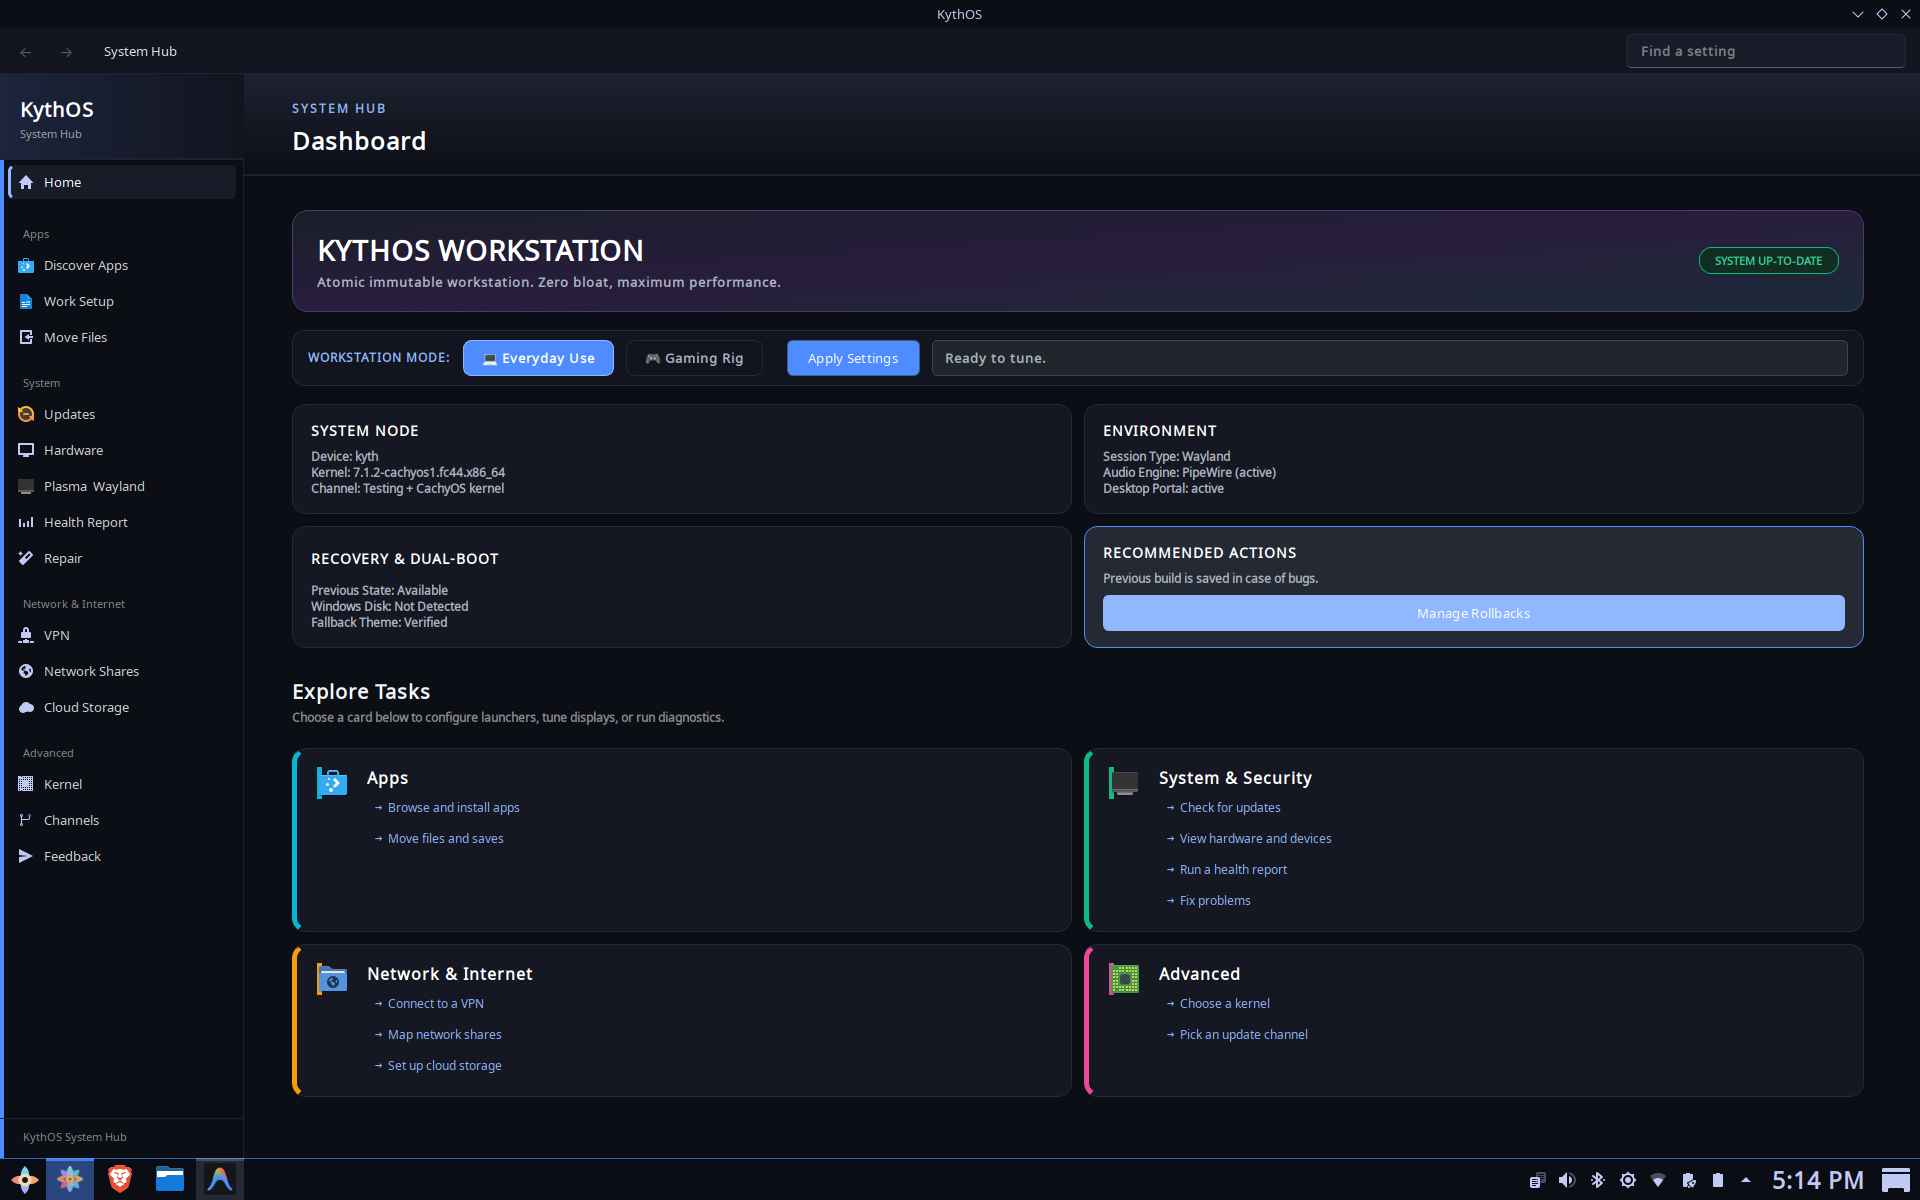
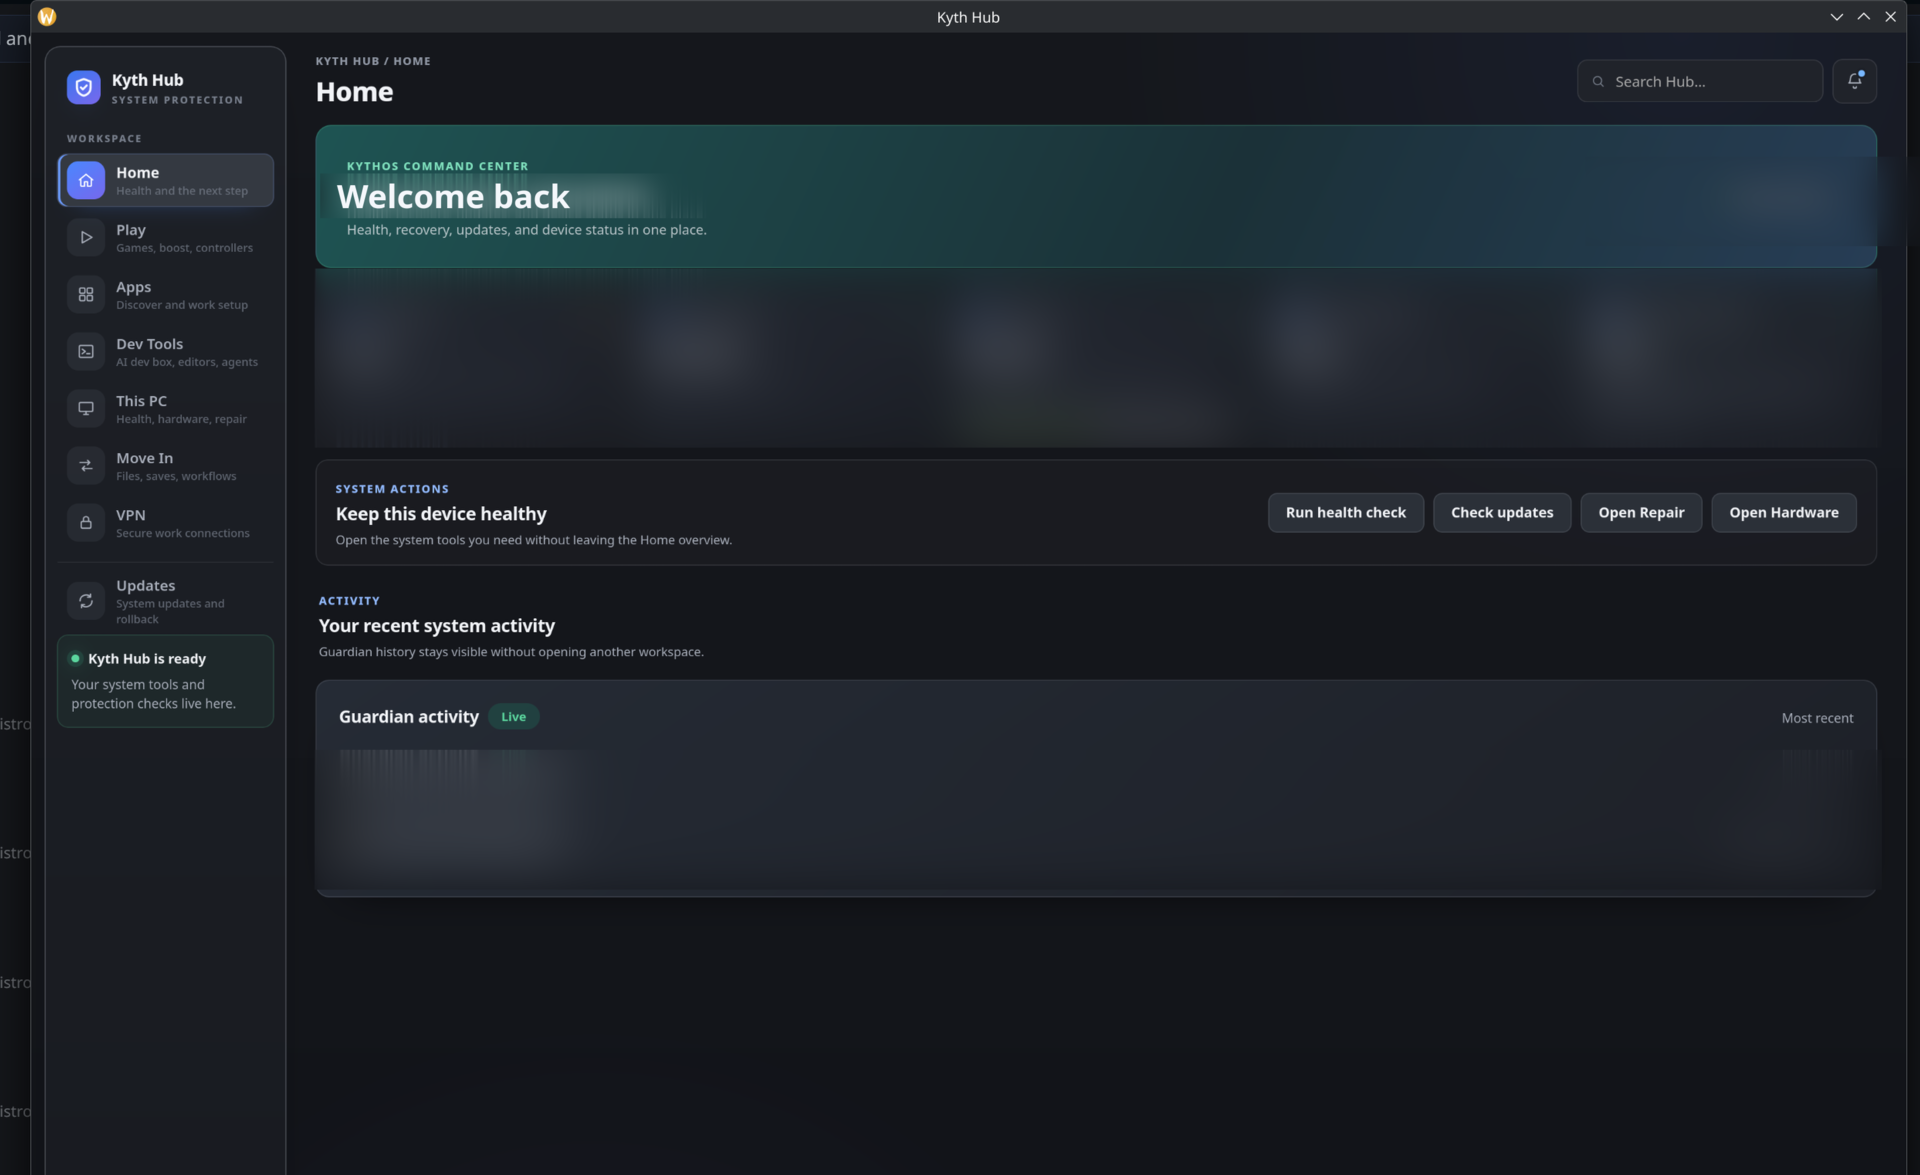
docs: refresh current Hub home screenshot

diff --git a/README.md b/README.md
@@ -25,8 +25,10 @@ KythOS is not a promise that every Windows program, anti-cheat system, driver, o
 ## Start with Kyth Hub
 
 <div align="center">
-<img src="docs/system-hub-home.png" alt="The Kyth Hub home screen" width="100%">
+<img src="docs/system-hub-home.png" alt="Current Kyth Hub Home screen with device-specific live details obscured" width="100%">
 </div>
+
+<sub>Device-specific values and activity details are blurred in this screenshot for privacy.</sub>
 
 Kyth Hub is the guided control center for KythOS. Instead of sending you through settings panels, terminal commands, and web searches, it gives you one clear next step and keeps the useful controls close by.
 
